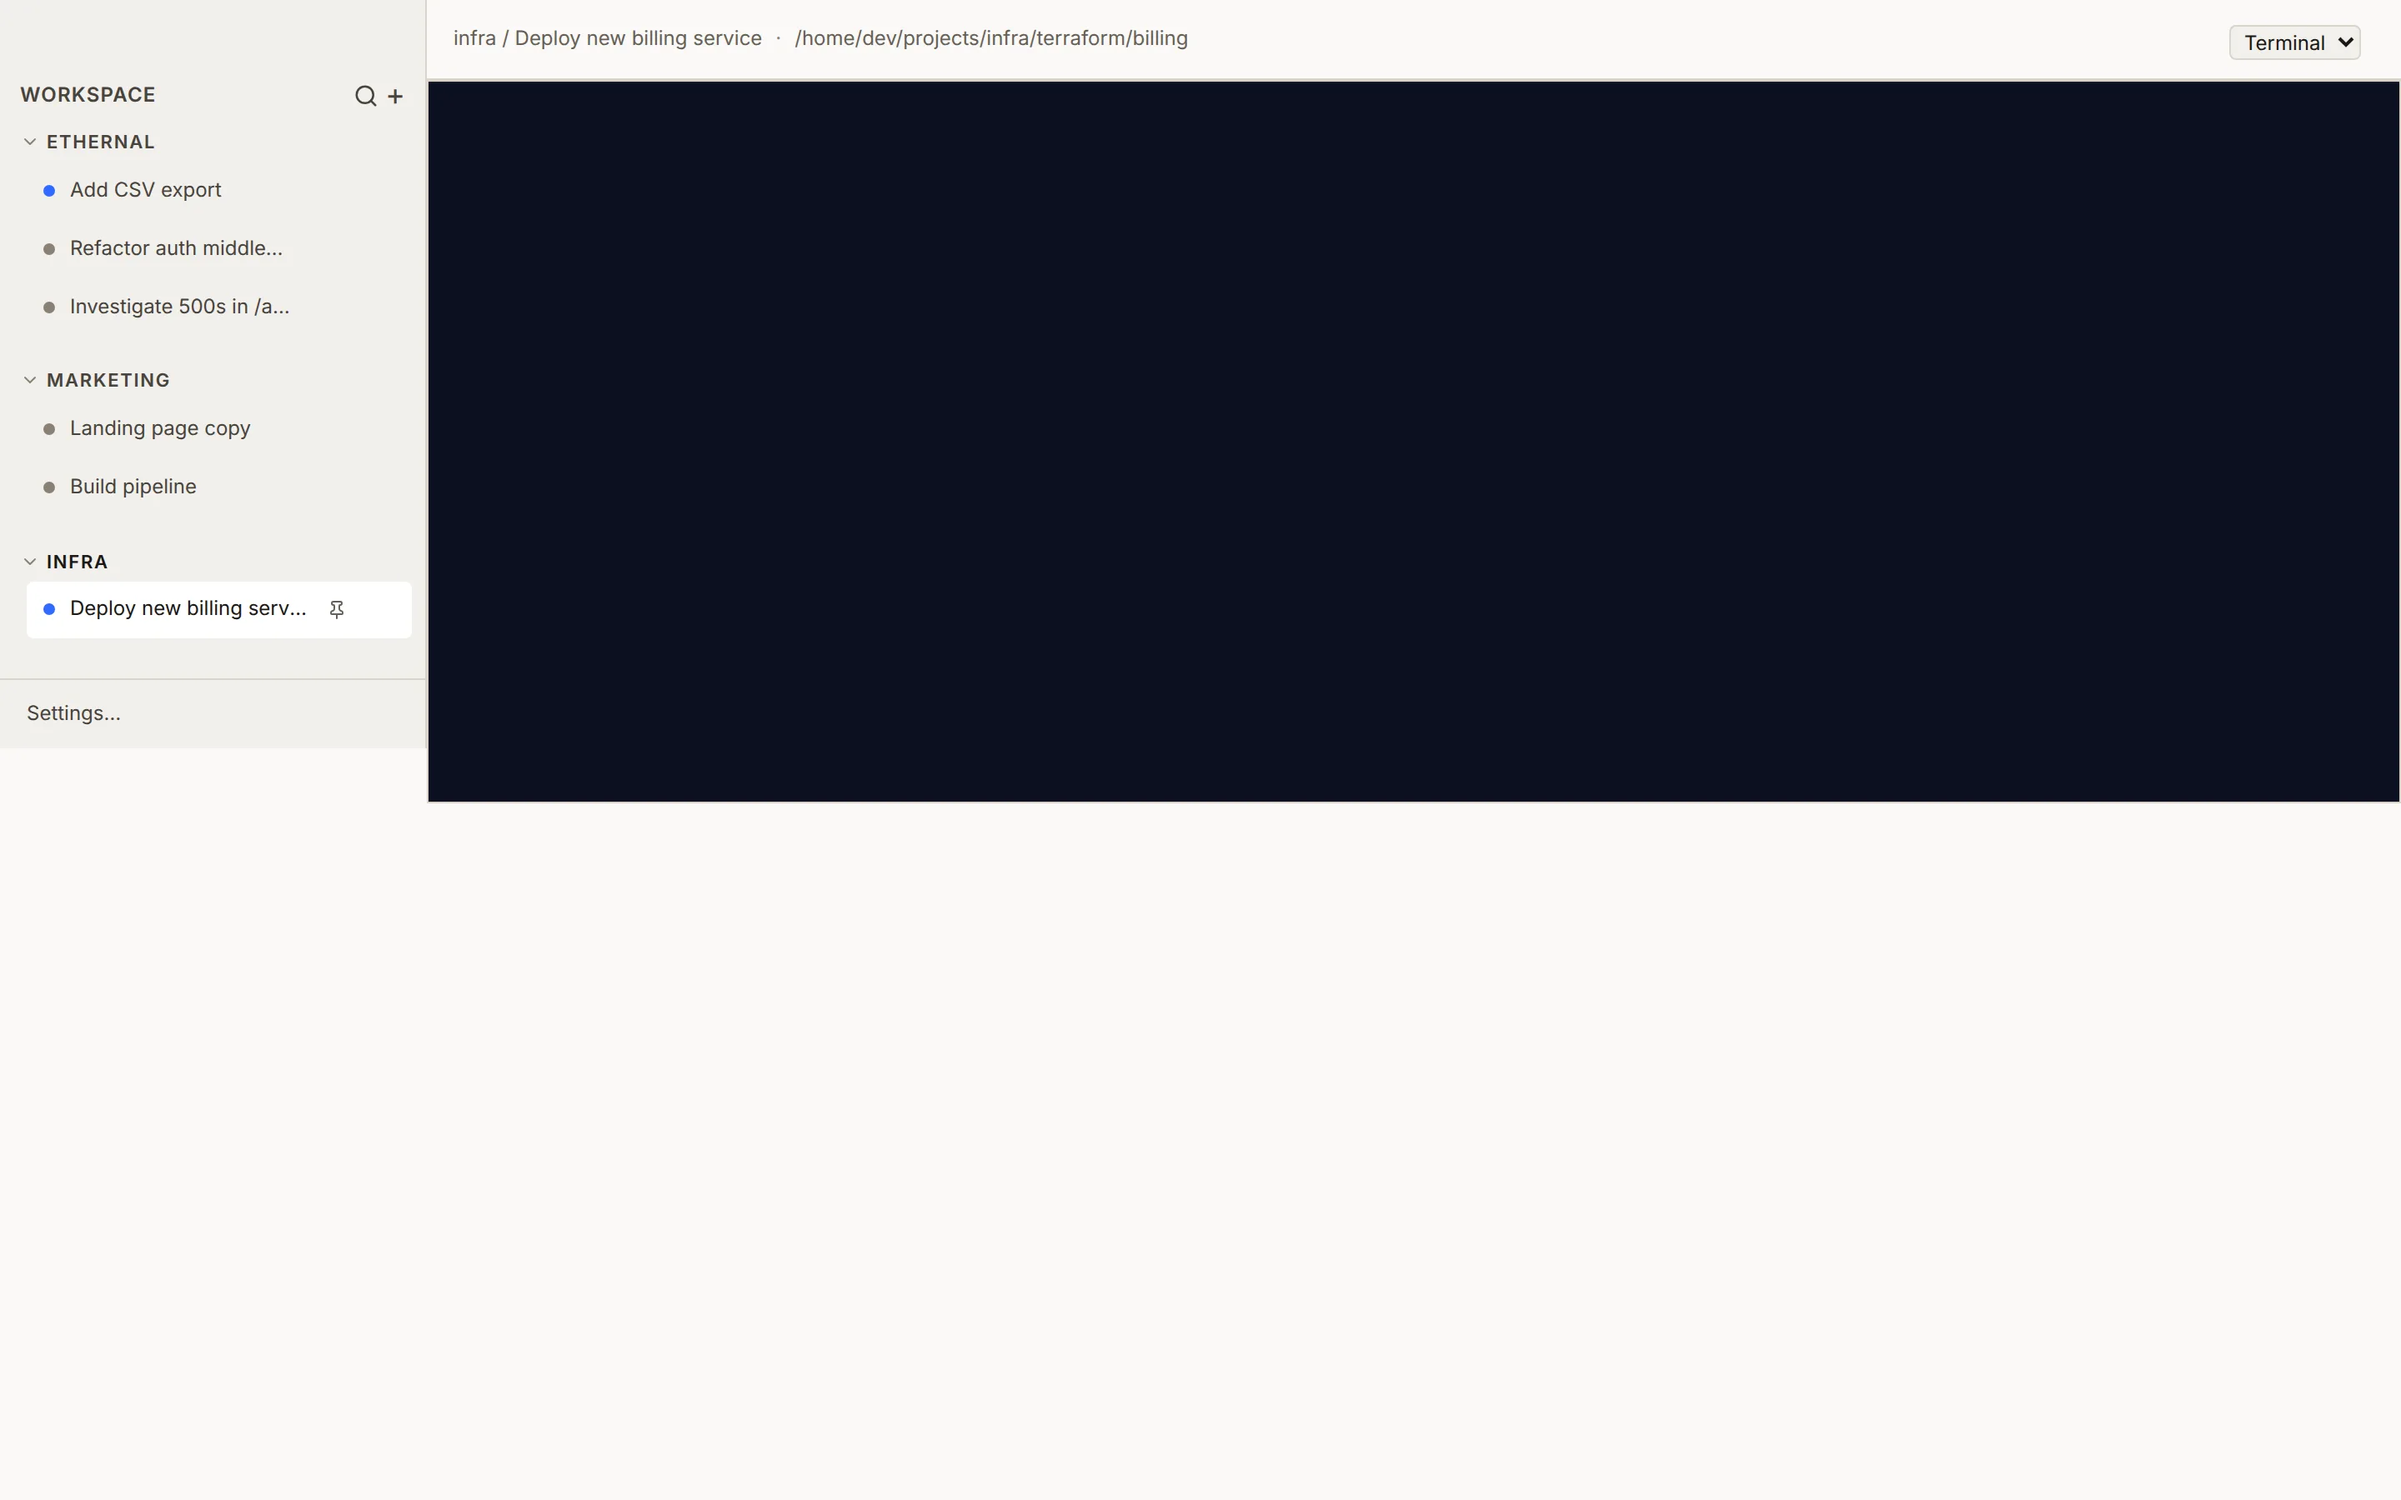
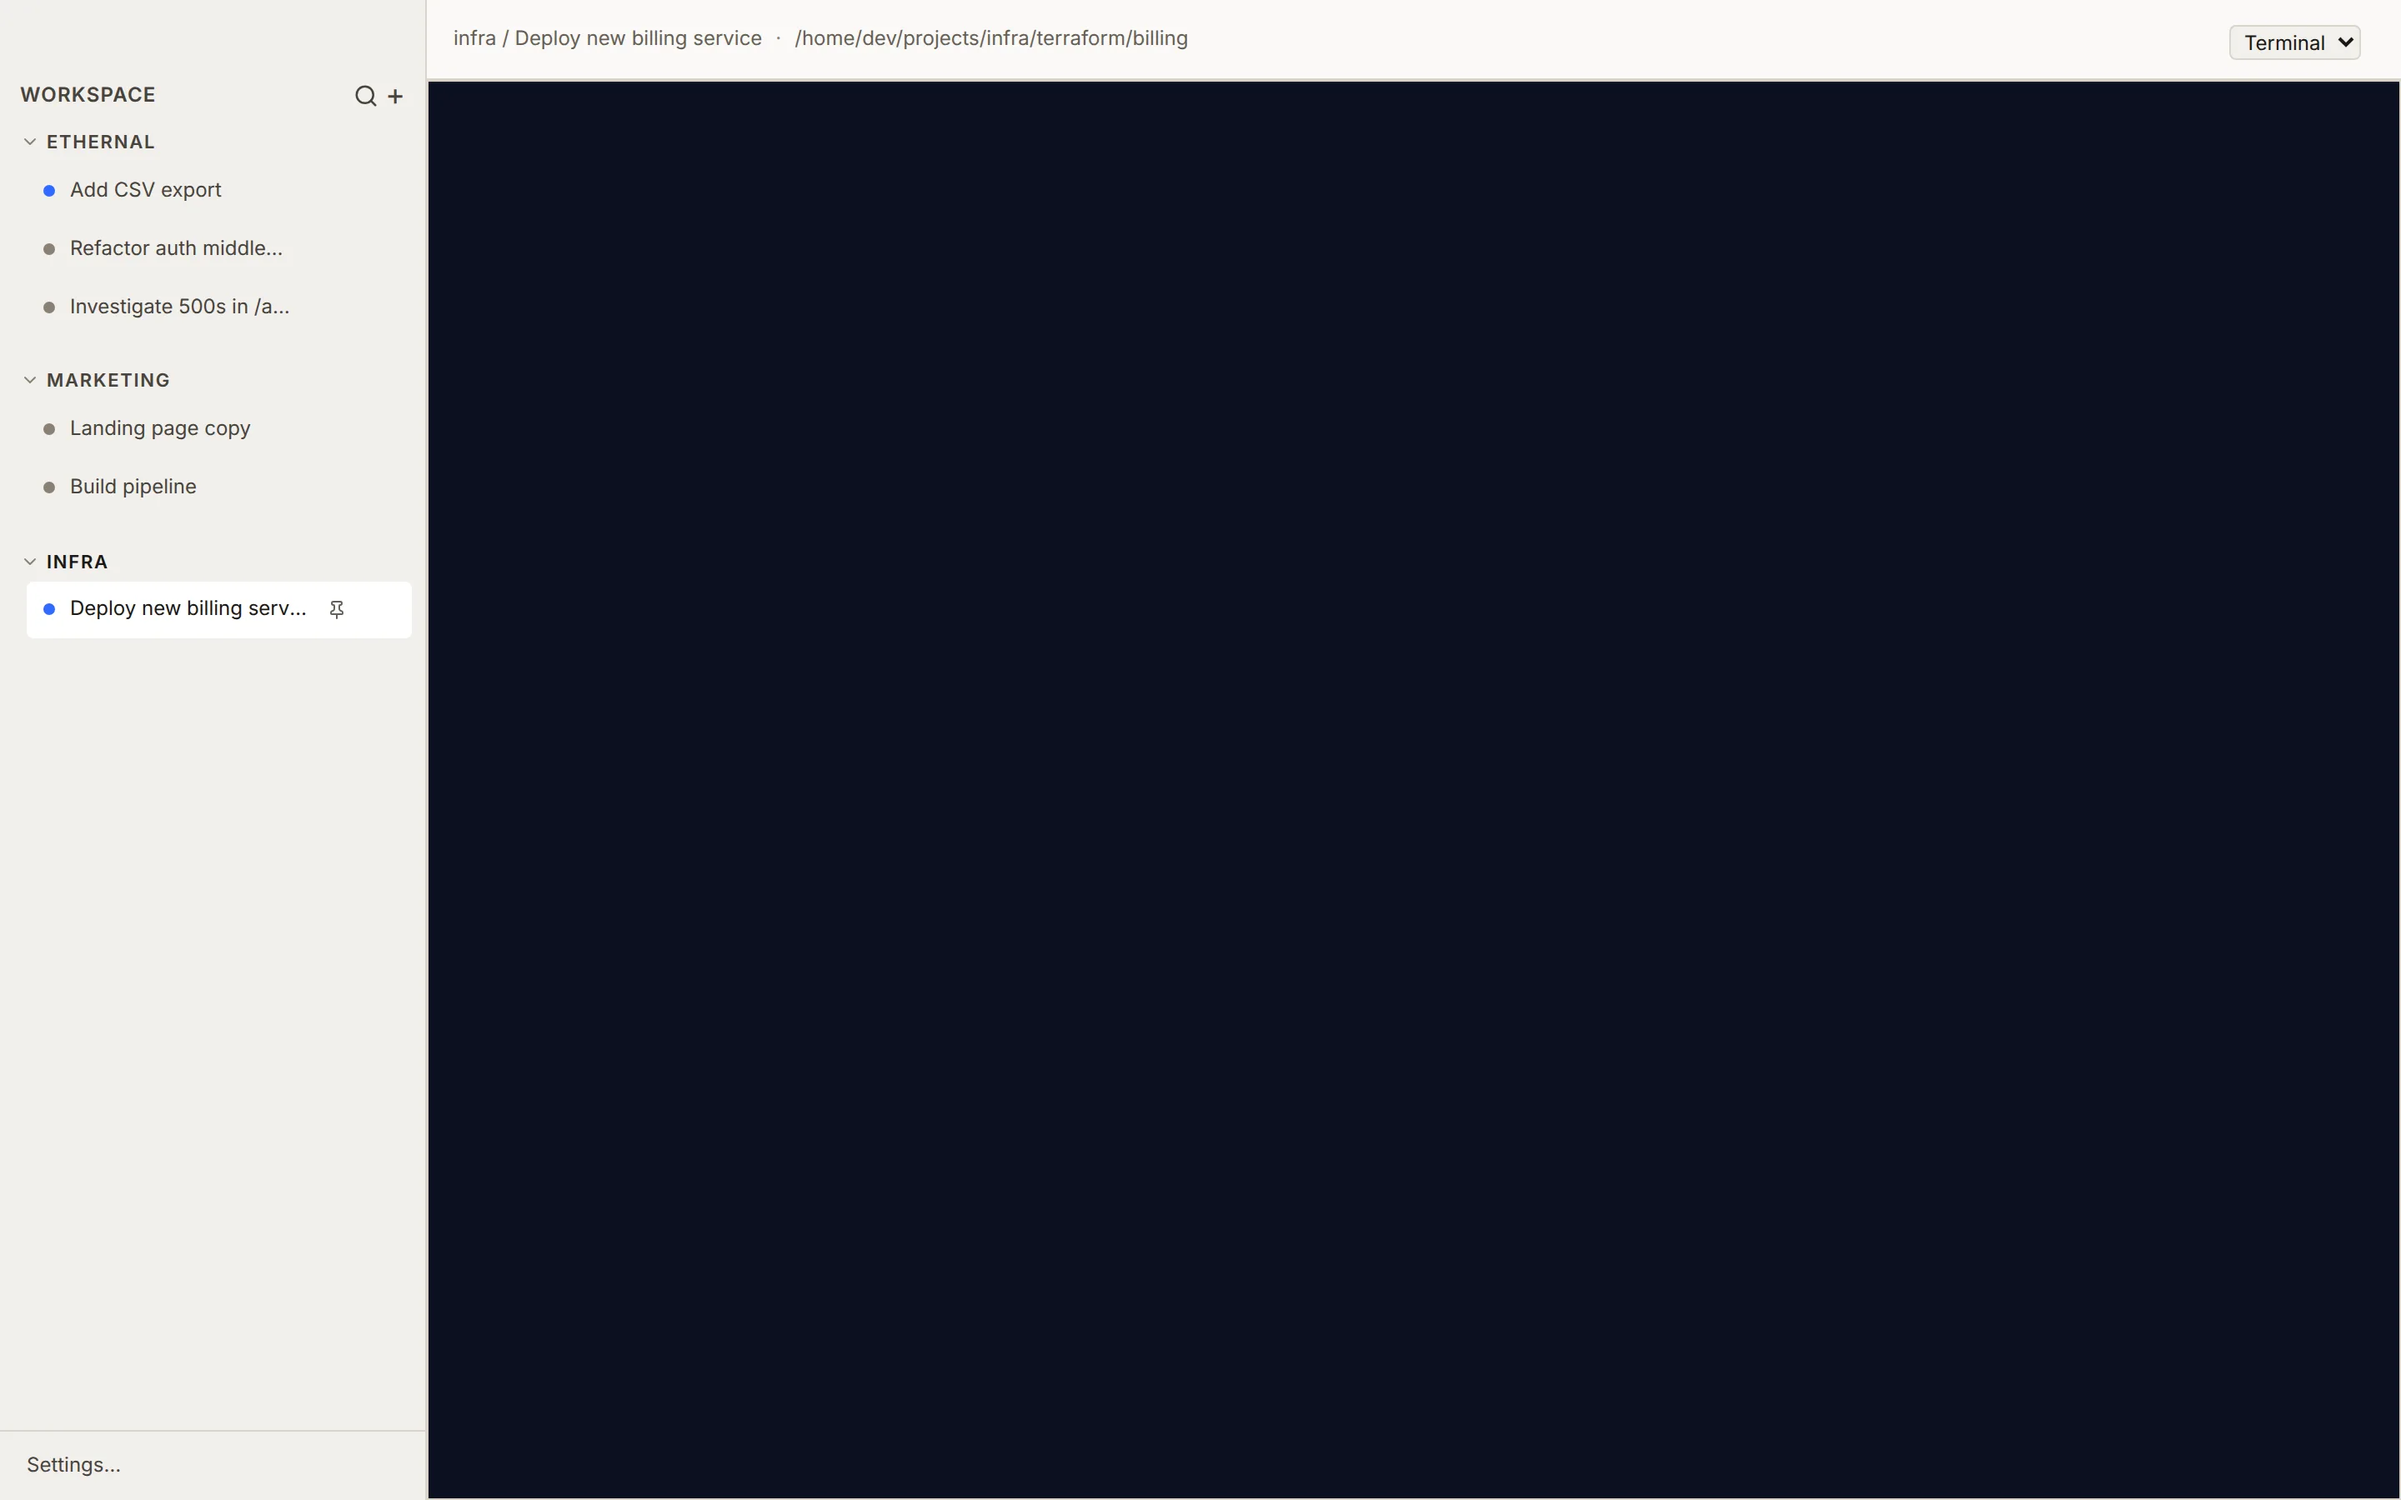
fix(renderer): restore w-full/h-full — dimension scales lost their non-numeric keys (BET-447) (#383)
BET-422 trimmed theme.spacing to 11 steps and decoupled the dimension scales
so dimension utilities would survive the trim. Its own comment says exactly
that, but it wired theme.width/height to `fullSpacingScale` — the numeric
steps only — instead of `dimensionScale`, which is the same set PLUS
`full`/`screen`/`min`/`max`. minHeight/maxHeight got dimensionScale
correctly, which is why only the width/height axes broke.

An unknown Tailwind scale key produces no rule and no error, so `w-full`
(73 usages) and `h-full` (17 usages) simply stopped being emitted. Every
full-height flex chain in the app then collapsed to content height: the
sidebar stopped filling the window (449px of 900), and the transcript
container stopped being a scroll container at all (scrollHeight ===
clientHeight, maxScroll 0).

It also silently corrupted both capture pipelines, because both were
re-recorded while the bug was live:

  - website/shot-*.webp — the committed hero shot is a chrome-less,
    sidebar-less fragment. shot-hero and shot-approvals came out
    byte-IDENTICAL, because "scroll to the approval cards" is a no-op when
    nothing scrolls. Not yet published; no web-v* tag since.
  - the visual baseline welcome-visual-linux.png — so BET-443 was built and
    reviewed against a collapsed layout, and the drift gate re-armed in
    BET-444 was pinning the broken images as canonical.

Both are regenerated here from the fixed build.
[…]

diff --git a/src/renderer/tailwindScale.test.ts b/src/renderer/tailwindScale.test.ts
@@ -1,0 +1,106 @@
+import { describe, expect, it } from "vitest";
+import { readdirSync, readFileSync, statSync } from "node:fs";
+import { dirname, join, resolve } from "node:path";
+import { fileURLToPath } from "node:url";
+// @ts-expect-error — plain .js config, no types.
+import tailwindConfig from "../../tailwind.config.js";
+
+/**
+ * A Tailwind utility whose scale key does not exist compiles to NOTHING.
+ * No build error, no lint error, no test failure — the class stays in the
+ * markup and simply has no effect. That failure mode has now bitten twice:
+ *
+ *   - BET-422 trimmed `theme.spacing` and, in the same pass, replaced
+ *     `theme.width` / `theme.height` with a numeric-only scale that had no
+ *     `full` key. `w-full` (73 usages) and `h-full` (17 usages) silently
+ *     stopped being emitted, so every full-height flex chain in the app
+ *     collapsed to content height — the sidebar stopped filling the window
+ *     and the transcript container stopped scrolling.
+ *   - An off-grid padding value in a visual-verification test compiled to
+ *     nothing for the same reason.
+ *
+ * This test closes the hole for the dimension utilities: every `w-*` / `h-*`
+ * class the renderer actually uses must resolve to a key in the configured
+ * scale. It is pure (no build, no browser) so it fails on the offending PR,
+ * in the fast job, rather than as a mystery pixel diff later.
+ */
+
+const RENDERER_DIR = resolve(dirname(fileURLToPath(import.meta.url)));
+
+/**
+ * `w-…` / `h-…` only when NOT preceded by another word char or a hyphen, so
+ * `max-w-md` and `min-h-0` (different scales, not under test here) don't
+ * masquerade as `w-md` / `h-0`.
+ */
+const UTILITY_RE = /(?<![-\w])([wh])-([A-Za-z0-9./]+)/g;
+
+/** Arbitrary values (`w-[3px]`) and CSS-var forms bypass the scale entirely. */
+function isScaleLookup(value: string): boolean {
+  return !value.startsWith("[");
+}
+
+function sourceFiles(dir: string): string[] {
+  const out: string[] = [];
+  for (const entry of readdirSync(dir)) {
+    const full = join(dir, entry);
+    if (statSync(full).isDirectory()) {
+      out.push(...sourceFiles(full));
+      continue;
+    }
+    if (/\.tsx?$/.test(entry) && !/\.test\.tsx?$/.test(entry)) out.push(full);
+  }
+  return out;
+}
+
+function usedUtilities(): Map<string, string[]> {
+  const used = new Map<string, string[]>();
+  for (const file of sourceFiles(RENDERER_DIR)) {
+    const text = readFileSync(file, "utf8");
+    for (const [, axis, value] of text.matchAll(UTILITY_RE)) {
+      if (!isScaleLookup(value)) continue;
+      const key = `${axis}-${value}`;
+      const files = used.get(key) ?? [];
+      if (!files.includes(file)) files.push(file);
+      used.set(key, files);
+    }
+  }
+  return used;
+}
+
+describe("tailwind dimension scales", () => {
+  it("emits every w-* / h-* utility the renderer uses", () => {
+    const scales: Record<string, Record<string, string>> = {
+      w: tailwindConfig.theme.width,
+      h: tailwindConfig.theme.height,
+    };
+
+    const unresolved: string[] = [];
+    for (const [utility, files] of usedUtilities()) {
+      const [axis, value] = [utility.slice(0, 1), utility.slice(2)];
+      if (!(value in scales[axis])) {
+        const where = files
+          .map((f) => f.replace(`${RENDERER_DIR}/`, ""))
+          .join(", ");
+        unresolved.push(`${utility} (used in ${where})`);
+      }
+    }
+
+    expect(
+      unresolved,
+      `These classes are in the markup but compile to nothing — the key is ` +
+        `missing from theme.width / theme.height in tailwind.config.js:\n` +
+        unresolved.map((u) => `  ${u}`).join("\n"),
+    ).toEqual([]);
+  });
+
+  it("keeps the non-numeric dimension keys every layout depends on", () => {
+    // `full` is the one that actually collapsed the app (BET-422). The others
+    // are pinned so a future scale edit cannot quietly drop them either.
+    for (const scale of ["width", "height", "minHeight", "maxHeight"] as const) {
+      expect(
+        Object.keys(tailwindConfig.theme[scale]),
+        `theme.${scale} lost a non-numeric key`,
+      ).toEqual(expect.arrayContaining(["full", "screen", "min", "max"]));
+    }
+  });
+});

diff --git a/tailwind.config.js b/tailwind.config.js
@@ -73,8 +73,15 @@ export default {
     // Replaced (not extended) so only the 11 steps generate padding/margin/
     // gap/space/inset utilities. Dimension scales below are decoupled.
     spacing: spacingScale,
-    width: fullSpacingScale,
-    height: fullSpacingScale,
+    // MUST be dimensionScale, not fullSpacingScale. fullSpacingScale is only
+    // the numeric steps — it has no `full`/`screen`/`min`/`max`. Setting
+    // width/height to it silently DELETED `w-full` (73 usages) and `h-full`
+    // (17 usages) from the build, so every full-height flex chain in the app
+    // collapsed to content height: the sidebar stopped filling the window and
+    // the transcript container stopped scrolling. Nothing failed — the classes
+    // just compiled to nothing. (BET-422 regression, fixed in BET-447.)
+    width: dimensionScale,
+    height: dimensionScale,
     minHeight: dimensionScale,
     maxHeight: dimensionScale,
     extend: {
